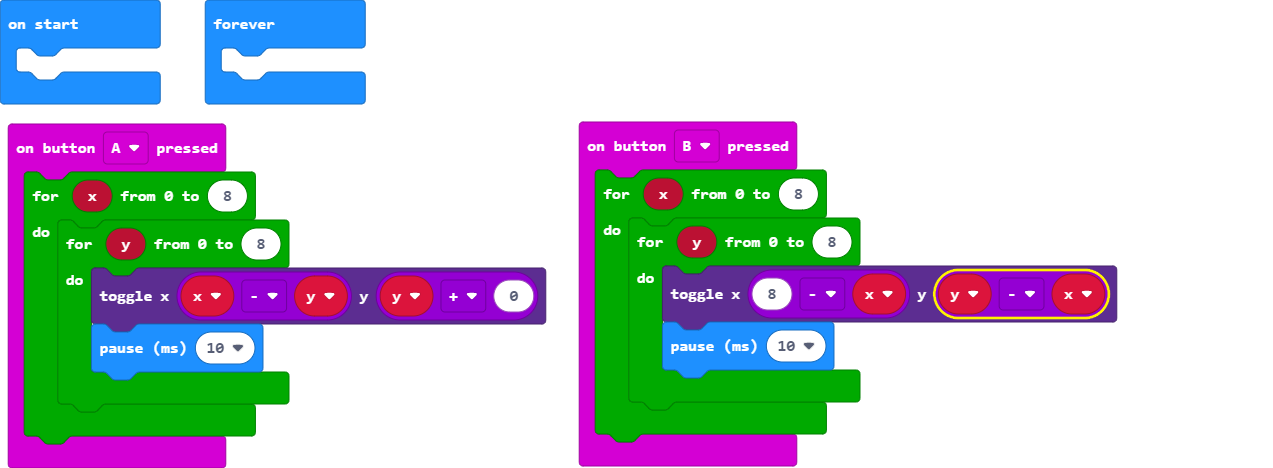
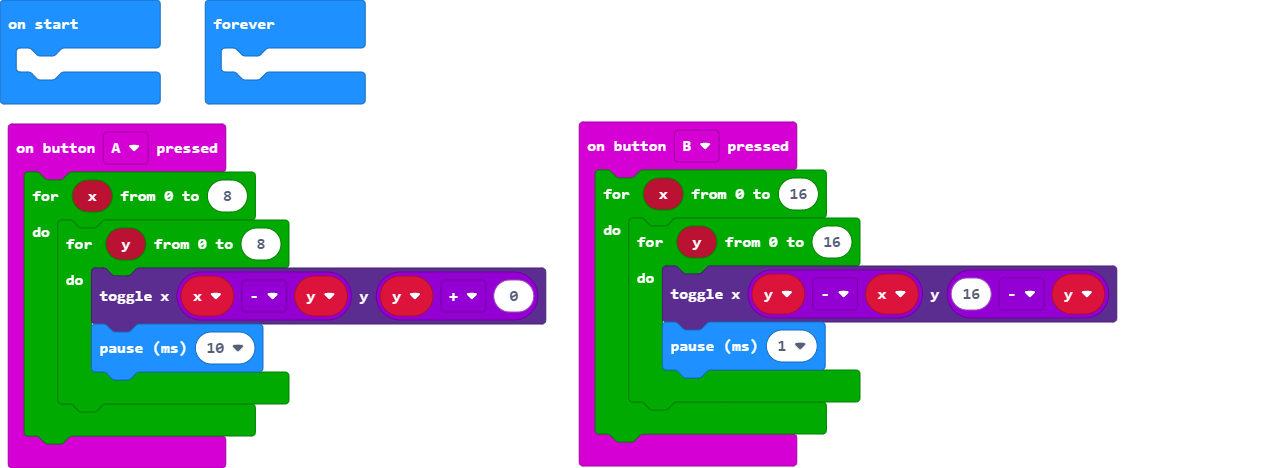
Update main.blocks, main.ts

Changed region(s): [[0.5821, 0.5684, 0.8578, 0.8077], [0.6434, 0.5085, 0.674, 0.5385], [0.6127, 0.3889, 0.6434, 0.4188]]

diff --git a/main.ts b/main.ts
@@ -7,10 +7,10 @@ input.onButtonPressed(Button.A, function () {
     }
 })
 input.onButtonPressed(Button.B, function () {
-    for (let x = 0; x <= 8; x++) {
-        for (let y = 0; y <= 8; y++) {
-            led.toggle(8 - x, y - x)
-            basic.pause(10)
+    for (let x = 0; x <= 16; x++) {
+        for (let y = 0; y <= 16; y++) {
+            led.toggle(y - x, 16 - y)
+            basic.pause(1)
         }
     }
 })
